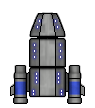
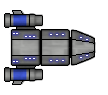
Ship movement complete

diff --git a/235/project3/js/script.js b/235/project3/js/script.js
@@ -192,13 +192,37 @@ function startGame()
 //gameLoop
 function gameLoop()
 {
-    if(paused) return;
+    //if(paused) return;
 
-    // #1 - Calculate "delta time"
 	let dt = 1/app.ticker.FPS;
     if(dt > 1/12) dt = 1/12;
     if(keys[controls.UP])
     {
-        ship.move();
+        ship.x = ship.x + 1 * Math.cos(ship.rotation);
+        ship.y = ship.y + 1 * Math.sin(ship.rotation);
+    }
+    if(keys[controls.RIGHT])
+    {
+        ship.rotation += 0.05;
+    }
+    if(keys[controls.LEFT])
+    {
+        ship.rotation -= 0.05;
+    }
+    if(ship.x > sceneWidth)
+    {
+        ship.x = 0;
+    }
+    if(ship.x < 0)
+    {
+        ship.x = sceneWidth;
+    }
+    if(ship.y > sceneHeight)
+    {
+        ship.y = 0;
+    }
+    if(ship.y < 0)
+    {
+        ship.y = sceneHeight;
     }
 }

diff --git a/235/project3/js/classes.js b/235/project3/js/classes.js
@@ -3,15 +3,9 @@ class Ship extends PIXI.Sprite
     constructor(x = 0, y = 0)
     {
         super(app.loader.resources["images/ship.png"].texture);
-        this.anchor.set(.5, .5);
-        this.scale.set(0.1);
+        this.anchor.set(1, 1);
+        this.scale.set(0.5);
         this.x = x;
         this.y = y;
-        this.speed = 125;
-    }
-    move(dt = 1/60)
-    {
-        this.x = this.x + dt * Math.cos(this.rotation);
-        this.y = this.y + dt * Math.sin(this.rotation);
     }
 }
